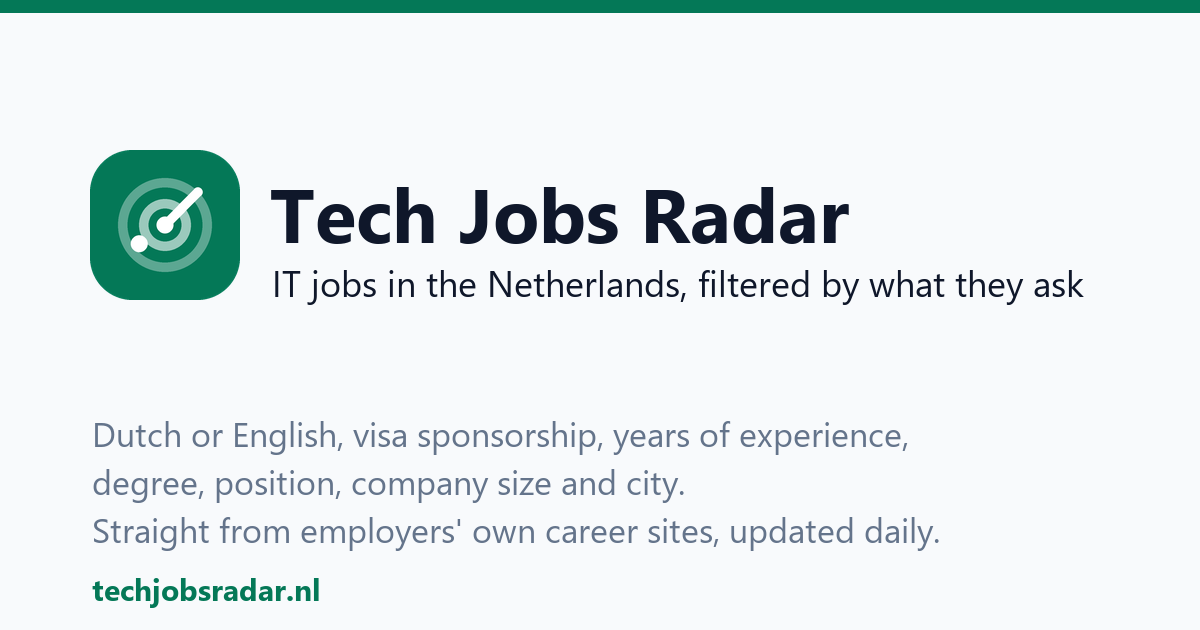
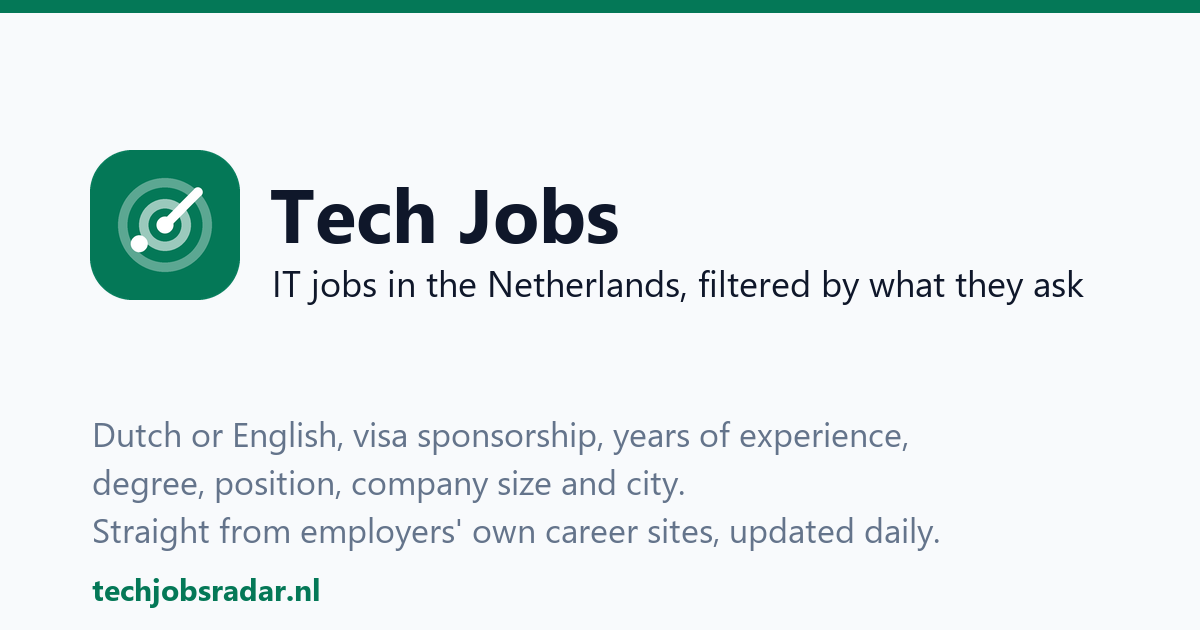
Rename the site to Tech Jobs

Changed region(s): [[0.5242, 0.3016, 0.7092, 0.3921]]

diff --git a/web/app.js b/web/app.js
@@ -50,7 +50,7 @@
      
       // dynamic strings
       "kpi.live": "live tech postings", "kpi.employers": "employers", "kpi.crawl": "last crawl",
-      "title": "Filter IT Jobs in the Netherlands by Language, Visa & Experience",
+      "title": "Tech Jobs in the Netherlands: Filter by Language, Visa & Experience",
      
       
      
@@ -119,7 +119,7 @@
       "exp.none": "none asked (entry level)", "exp.1": "≤ 1 year", "exp.2-3": "2-3 years", "exp.4-5": "4-5 years", "exp.6+": "6+ years", "exp.unspecified": "not stated",
       "co.back": "← Market", "co.skills": "Skills asked for", "co.level": "Seniority", "co.lang": "Posting language", "co.roles": "Open tech roles",
       "co.kpi.roles": "open tech roles", "co.kpi.cities": "cities", "co.kpi.en": "need no Dutch", "co.kpi.visa": "mention visa sponsorship", "co.kpi.new": "new in 30 days",
-      "co.none": "No open tech roles at the moment.", "co.title": "{c}: tech jobs", "co.permalink": "Permanent page", "co.all": "All employers",
+      "co.none": "No open tech roles at the moment.", "co.title": "{c} jobs", "co.permalink": "Permanent page", "co.all": "All employers",
      
      
      
@@ -158,7 +158,7 @@
      
      
       "kpi.live": "open techvacatures", "kpi.employers": "werkgevers", "kpi.crawl": "laatste crawl",
-      "title": "IT vacatures in Nederland filteren op taal, visum en ervaring",
+      "title": "Techvacatures in Nederland: filter op taal, visum en ervaring",
      
       
      
@@ -227,7 +227,7 @@
       "exp.none": "geen ervaring gevraagd (starter)", "exp.1": "≤ 1 jaar", "exp.2-3": "2-3 jaar", "exp.4-5": "4-5 jaar", "exp.6+": "6+ jaar", "exp.unspecified": "niet vermeld",
       "co.back": "← Markt", "co.skills": "Gevraagde skills", "co.level": "Niveau", "co.lang": "Taal van de vacature", "co.roles": "Open techvacatures",
       "co.kpi.roles": "open techvacatures", "co.kpi.cities": "steden", "co.kpi.en": "zonder Nederlands", "co.kpi.visa": "noemen visumsponsoring", "co.kpi.new": "nieuw in 30 dagen",
-      "co.none": "Op dit moment geen open techvacatures.", "co.title": "{c}: techvacatures", "co.permalink": "Vaste pagina", "co.all": "Alle werkgevers",
+      "co.none": "Op dit moment geen open techvacatures.", "co.title": "Vacatures bij {c}", "co.permalink": "Vaste pagina", "co.all": "Alle werkgevers",
      
      
      
@@ -555,7 +555,7 @@
       [fmt(o.live_tech_postings), t("kpi.live")], [fmt(o.companies), t("kpi.employers")],
       [last, t("kpi.crawl")],
     ].map(([v, l]) => `<div class="kpi"><b>${esc(v)}</b><span>${esc(l)}</span></div>`).join("");
-    document.title = `${t("title")} | ${document.title.split(" | ").pop()}`;
+    document.title = t("title");
   }
 
   // ---------- OVERVIEW ----------
@@ -614,7 +614,7 @@
     doughnut("co-lang", lang.items.map((i) => t("lang.chart." + i.key) === "lang.chart." + i.key ? i.key : t("lang.chart." + i.key)), lang.items.map((i) => i.count));
     $("#co-count").textContent = fmt(jobs.total);
     $("#co-permalink").href = "/company/" + name.toLowerCase().replace(/[^a-z0-9]+/g, "-").replace(/^-+|-+$/g, "");
-    document.title = `${t("co.title", { c: name })} | ${document.title.split(" | ").pop()}`;
+    document.title = `${t("co.title", { c: name })} | ${$("#brand").title}`;
     $("#co-jobs tbody").innerHTML = items.length ? items.map((i) => `<tr>
       <td class="muted" title="${esc(i.posted_at)}">${age(i)}</td>
       <td><a href="${jobPath(i)}" data-pid="${i.id}" target="_blank">${esc(i.title)}</a></td>

diff --git a/deploy/helm/radar/files/maintenance.html b/deploy/helm/radar/files/maintenance.html
@@ -5,7 +5,7 @@
 <meta name="viewport" content="width=device-width, initial-scale=1">
 <meta name="robots" content="noindex">
 <meta http-equiv="refresh" content="60">
-<title>Tech Jobs Radar is being updated</title>
+<title>Tech Jobs is being updated</title>
 <style>
   :root { --bg: #f8fafc; --card: #ffffff; --ink: #0f172a; --muted: #64748b; --line: #e2e8f0; --accent: #047857; --on-accent: #ffffff; }
   @media (prefers-color-scheme: dark) {
@@ -30,7 +30,7 @@
 <main>
   <div class="brand">
     <svg class="logo" viewBox="0 0 32 32" aria-hidden="true"><rect width="32" height="32" rx="9" fill="var(--accent)"/><g fill="none" stroke="var(--on-accent)" stroke-width="2" stroke-linecap="round"><circle cx="16" cy="16" r="10" opacity=".35"/><circle cx="16" cy="16" r="5.5" opacity=".6"/><path d="M16 16l7-7"/></g><circle cx="16" cy="16" r="1.8" fill="var(--on-accent)"/><circle cx="10.5" cy="20" r="1.8" fill="var(--on-accent)"/></svg>
-    Tech Jobs Radar
+    Tech Jobs
   </div>
   <h1>Being updated</h1>
   <p>The site is back in about a minute. This page reloads by itself.</p>

diff --git a/web/landing.html b/web/landing.html
@@ -3,7 +3,7 @@
 <head>
 <meta charset="utf-8">
 <meta name="viewport" content="width=device-width, initial-scale=1">
-<title>{{TITLE}} | {{SITE_NAME}}</title>
+<title>{{DOC_TITLE}}</title>
 <meta name="description" content="{{DESCRIPTION}}">
 <link rel="canonical" href="{{SITE_URL}}{{PATH}}">
 <link rel="alternate" hreflang="nl" href="{{SITE_URL}}{{NL_PATH}}">

diff --git a/web/index.html b/web/index.html
@@ -298,6 +298,6 @@
   <p class="mt-6 border-t border-line pt-6"><a href="{{PRIVACY_PATH}}" data-i18n="privacy">Privacy</a> · <a href="{{FEEDBACK_PATH}}" data-i18n="feedback">Feedback</a>{{SOURCE_LINK}}</p>
  </div>
 </footer>
-<script src="/static/app.js?v=82"></script>
+<script src="/static/app.js?v=83"></script>
 </body>
 </html>

diff --git a/radar/config.py b/radar/config.py
@@ -26,15 +26,16 @@ class Settings(BaseSettings):
     cors_origins: str = "*"  # comma-separated; set to the public domain in production
     # Branding and search: the site name goes into the title, headings and structured data; the aliases are
     # phrases people may search for ("TechJobsNL"); the URL is the canonical public address.
-    site_name: str = "Tech Jobs Radar"
-    site_aliases: str = "TechJobsRadar, TechJobsNL, Tech Jobs NL, ICT vacatures, IT vacatures, tech jobs Netherlands"
+    site_name: str = "Tech Jobs"
+    site_aliases: str = ("Tech Jobs Radar, TechJobsRadar, techjobsradar.nl, TechJobsNL, Tech Jobs NL, ICT vacatures, "
+                         "IT vacatures, tech jobs Netherlands")
     site_url: str = "https://techjobsradar.nl"
     # Google Search Console verification token (the content of its <meta name="google-site-verification">)
     google_site_verification: str | None = None
     # the brand line: page titles, search snippets and the share card (no counts, nothing that dates)
-    # home page title, before the name: what the site does and where, in the words people search with
-    site_headline: str = "Filter IT Jobs in the Netherlands by Language, Visa & Experience"
-    site_headline_nl: str = "IT vacatures in Nederland filteren op taal, visum en ervaring"
+    # the home page title on its own (it starts with the name): what the site does and where, in search words
+    site_headline: str = "Tech Jobs in the Netherlands: Filter by Language, Visa & Experience"
+    site_headline_nl: str = "Techvacatures in Nederland: filter op taal, visum en ervaring"
     site_tagline: str = ("Tech jobs from Dutch employers' own career sites, filtered by what each posting asks: "
                          "Dutch or English, visa sponsorship, years of experience and degree.")
     # The crawler names itself, with a page explaining it and a contact address; robots.txt rules for
@@ -63,7 +64,7 @@ class Settings(BaseSettings):
     # accounts (radar/auth.py): the login link is e-mailed. "console" logs it instead of sending (local use);
     # "smtp" sends through RADAR_SMTP_HOST, e.g. Amazon SES's SMTP endpoint
     mail_backend: str = "console"
-    mail_from: str = "Tech Jobs Radar <login@techjobsradar.nl>"
+    mail_from: str = "Tech Jobs <login@techjobsradar.nl>"
     # where alerts go (crawling stalled, nightly quality check failed); empty = only logged
     alert_email: str | None = "contact@techjobsradar.nl"
     smtp_host: str = "localhost"

diff --git a/tests/test_crawler_and_api.py b/tests/test_crawler_and_api.py
@@ -114,7 +114,7 @@ def test_api_endpoints(fresh_db):
     client = TestClient(app)
     assert client.get("/healthz").json() == {"ok": True, "build": "dev"}
     home = client.get("/").text
-    assert "{{" not in home and '<h1>Tech Jobs Radar<span class="sr-only">: tech jobs in the Netherlands</span></h1>' in home and "TechJobsNL" in home
+    assert "{{" not in home and '<h1>Tech Jobs<span class="sr-only"> in the Netherlands</span></h1>' in home and "TechJobsNL" in home
     assert '"@type": "WebSite"' in home
     assert "Sitemap:" in client.get("/robots.txt").text and "<urlset" in client.get("/sitemap.xml").text
     ov = client.get("/api/overview").json()
@@ -325,12 +325,12 @@ def test_search_landing_pages_bilingual_and_in_sitemap(fresh_db):
     en = client.get("/jobs/tech-amsterdam")
     assert nl.status_code == 200 and en.status_code == 200
     assert "<title>ICT vacatures Amsterdam | " in nl.text and 'lang="nl"' in nl.text
-    assert "<title>Tech jobs in Amsterdam | " in en.text and 'hreflang="nl" href="https://techjobsradar.nl/vacatures/ict-amsterdam"' in en.text
+    assert "<title>Tech jobs in Amsterdam</title>" in en.text and 'hreflang="nl" href="https://techjobsradar.nl/vacatures/ict-amsterdam"' in en.text
     assert "Data Engineer 0" in en.text and "{{" not in en.text
     assert client.get("/jobs/english-speaking").status_code == 200
     assert client.get("/jobs/tech-groningen").status_code == 404  # no postings there: no thin page
     home_nl = client.get("/nl/").text
-    assert 'lang="nl"' in home_nl and "IT vacatures in Nederland filteren" in home_nl and "/vacatures/ict-amsterdam" in home_nl
+    assert 'lang="nl"' in home_nl and "Techvacatures in Nederland: filter op" in home_nl and "/vacatures/ict-amsterdam" in home_nl
     sm = client.get("/sitemap.xml").text
     assert "/vacatures/ict-amsterdam</loc>" in sm and "/jobs/english-speaking</loc>" in sm and "/nl/</loc>" in sm
 

diff --git a/radar/api.py b/radar/api.py
@@ -621,12 +621,12 @@ def _render_index(session: Session | None = None, lang: str = "en") -> str:
         links = seo.popular_links(pages, lang)
     # what the site does, not a running count: a count dates within hours and reads like an advert
     if lang == "nl":
-        title = f"{settings.site_headline_nl} | {settings.site_name}"
+        title = settings.site_headline_nl
         desc = ("Filter op wat de vacature echt vraagt: Nederlands of Engels, visumsponsoring, jaren ervaring en "
                 "opleiding. Plus functie, skills, bedrijfsgrootte en stad. Rechtstreeks van de carrièresites van "
                 "werkgevers, dagelijks bijgewerkt.")
     else:
-        title = f"{settings.site_headline} | {settings.site_name}"
+        title = settings.site_headline
         desc = ("Filter by what each posting actually asks: Dutch or English, visa sponsorship, years of experience "
                 "and degree. Plus position, skills, company size and city. Straight from employers' own career "
                 "sites, updated daily.")
@@ -647,7 +647,7 @@ def _render_index(session: Session | None = None, lang: str = "en") -> str:
                 .replace("{{HTML_LANG}}", lang)
                 .replace("{{HOME_PATH}}", "/nl/" if lang == "nl" else "/")
                 .replace("{{H1_SUFFIX}}",
-                         ": techvacatures in Nederland" if lang == "nl" else ": tech jobs in the Netherlands")
+                         " in Nederland" if lang == "nl" else " in the Netherlands")
                 .replace("{{PAGE_TITLE}}", title)
                 .replace("{{META_DESCRIPTION}}", desc)
                 .replace("{{VERIFY}}", seo.verification_meta())

diff --git a/radar/pages.py b/radar/pages.py
@@ -75,7 +75,7 @@ def _brand(html: str) -> str:
 
 _TEXT = {
     "en": {
-        "title": "{c}: tech jobs in the Netherlands", "subtitle": "tech jobs in the Netherlands",
+        "title": "{c} jobs in the Netherlands", "subtitle": "tech jobs in the Netherlands",
         "open": "open tech roles", "nodutch": "need no Dutch", "visa": "mention visa sponsorship",
         "employees": "employees", "cities": "Cities", "skills": "Skills asked for",
         "interactive": "Open the interactive view",
@@ -90,7 +90,7 @@ _TEXT = {
         "today": "today", "yesterday": "yesterday", "days": "{d}d ago",
     },
     "nl": {
-        "title": "{c}: techvacatures in Nederland", "subtitle": "techvacatures in Nederland",
+        "title": "{c} vacatures in Nederland", "subtitle": "techvacatures in Nederland",
         "open": "open techvacatures", "nodutch": "zonder Nederlands", "visa": "noemen visumsponsoring",
         "employees": "medewerkers", "cities": "Steden", "skills": "Gevraagde skills",
         "interactive": "Open de interactieve weergave",

diff --git a/radar/seo.py b/radar/seo.py
@@ -80,6 +80,11 @@ THEMES = {  # key: (filter kwargs, nl slug, en slug, nl title, en title)
 CITY_NL = {"The Hague": "Den Haag", "'s-Hertogenbosch": "Den Bosch"}
 
 
+def doc_title(title: str) -> str:
+    """The <title>: the page title, then the site name, unless the title already says "tech jobs" (it is the name)."""
+    return title if "tech jobs" in title.lower() else f"{title} | {settings.site_name}"
+
+
 def city_nl(c: str) -> str:
     return CITY_NL.get(c, c)
 
@@ -416,6 +421,7 @@ def render(page: Page, lang: str, rows: list[stats.Row], pages: list[Page]) -> s
     reps = {
         "{{LANG}}": lang,
         "{{TITLE}}": escape(title),
+        "{{DOC_TITLE}}": escape(doc_title(title)),
         "{{COUNT}}": str(n),
         "{{SITE_NAME}}": escape(settings.site_name),
         "{{SITE_URL}}": base,

diff --git a/scripts/brand_assets.py b/scripts/brand_assets.py
@@ -60,7 +60,7 @@ def card() -> Image.Image:
     d = ImageDraw.Draw(img)
     d.rectangle((0, 0, 1200, 12), fill=ACCENT)
     img.paste(logo(150), (90, 150), logo(150))
-    d.text((270, 160), "Tech Jobs Radar", font=font(True, 76), fill=INK)
+    d.text((270, 160), "Tech Jobs", font=font(True, 76), fill=INK)
     d.text((272, 258), "IT jobs in the Netherlands, filtered by what they ask", font=font(False, 36), fill=INK)
     d.text((92, 410), "Dutch or English, visa sponsorship, years of experience,", font=font(False, 34), fill=MUTED)
     d.text((92, 458), "degree, position, company size and city.", font=font(False, 34), fill=MUTED)

diff --git a/README.md b/README.md
@@ -1,4 +1,4 @@
-# Tech Jobs Radar
+# Tech Jobs
 
 A job board for tech, software, data and IT vacancies in the Netherlands, read directly from employers' own career
 sites. Each posting is tagged with the skills, seniority, experience and degree it asks for, its language, whether
